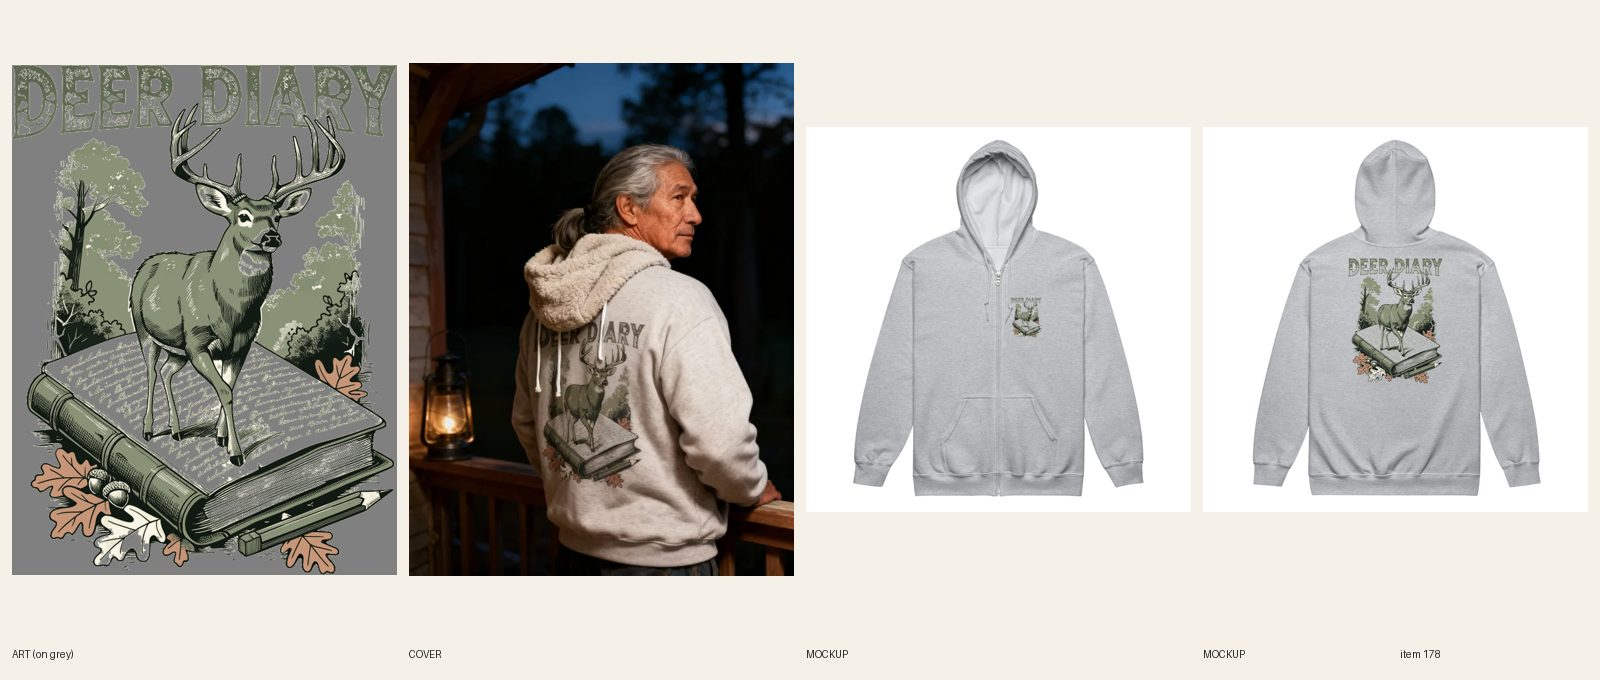
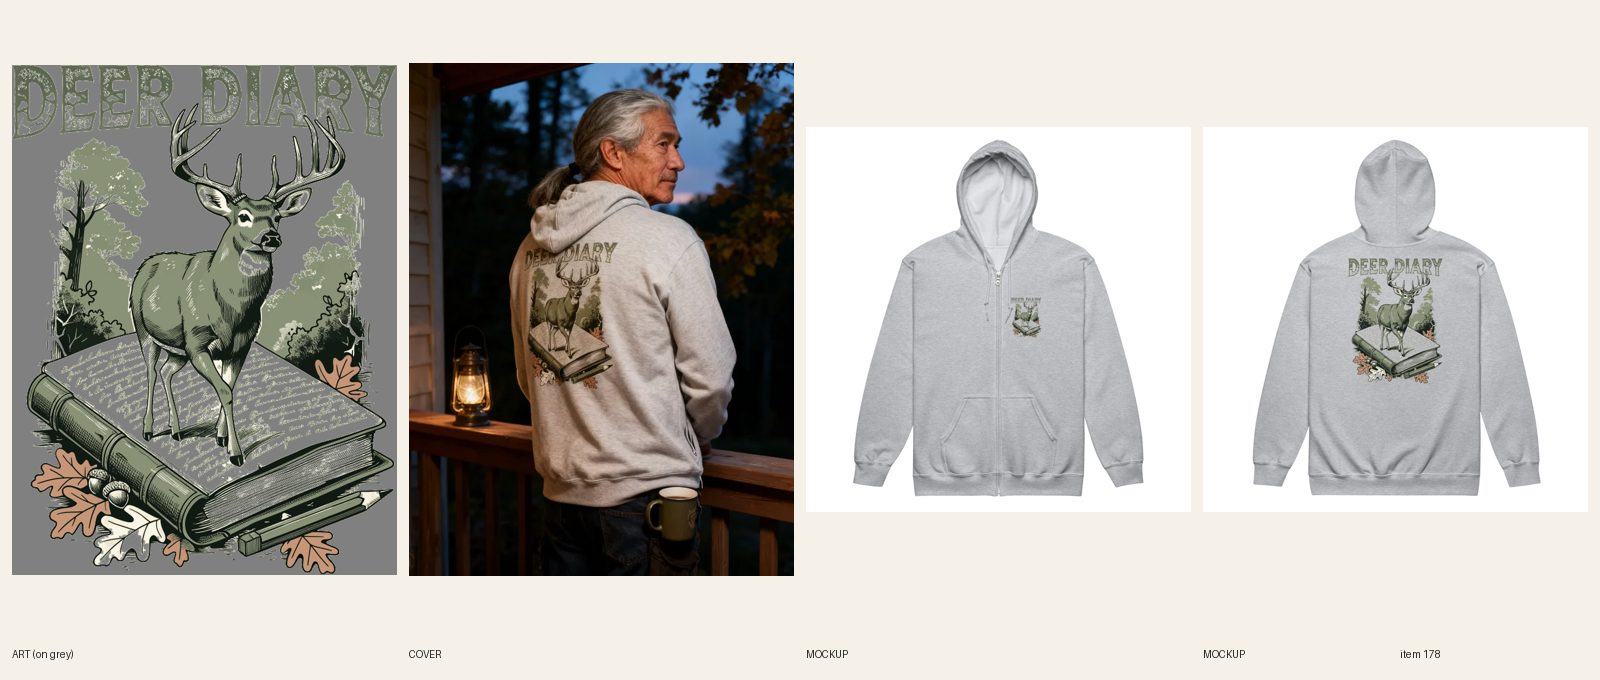
[B] redo 178 cover -> review

Changed region(s): [[0.25, 0.0926, 0.5, 0.8647]]

diff --git a/docs/intake-log.md b/docs/intake-log.md
@@ -1,3 +1,4 @@
+2026-10-16 18:46 UTC — [B] REVIEW #178 (redo): cover only (R6.9 redo): generated from the Sport Grey BACK mockup with 3 images per call; plain cotton-fleece hood resting behind the neck, DEER DIARY and the buck fully readable, no zipper on the back.
 2026-10-16 18:44 UTC — [H] Helper run: Telegram inbox empty (getUpdates returned no messages, nothing to consume). Audit: 184 live products, 0 errors, 7 warnings (polish only, left alone); no price, SEO or collection errors to fix. Announcement bar already reads the holiday line (R12.3). Site freshness: #191 nutcracker bow hoodie, #190 highland cow hoodie, #184 clean plate club hoodie all return 200. Stuck check: none. Lane A last commit 18:30, lane B committed 18:41 (its RUNNING line is from 16:36 but the lane is active, so no alert). Daily summary already sent today (12:43). Lock released.
 2026-10-16 18:44 UTC — [B] REVIEW #157 (redo): cover only (R6.9 redo): new model (registry row 400, short cropped hair) so nothing crosses the print, generated from the Black mockup with 3 images per call, covers.ts alt updated. #227's long-braid row is retired.
 2026-10-16 18:41 UTC — [B] REVIEW #165 (redo): in-place redo of the ACTIVE product: new Recraft art (Conflict Resolution, try 1), single original-ink file for all 4 light colors, 30 variants re-syncing, new mockups + variant images + cover (#235, 3 images per call, best kept), copy unchanged (still accurate).

diff --git a/docs/pipeline/178-hunting-zip-deer-diary.md b/docs/pipeline/178-hunting-zip-deer-diary.md
@@ -1,4 +1,4 @@
-status: BUILDING [B] 2026-10-16
+status: REVIEW
 lane: B
 type: twin
 id: 178
@@ -26,3 +26,4 @@ handle: mens-hunting-deer-diary-zip-hoodie
 - 2026-10-16 18:40 UTC director: REDO (product stays DRAFT). Notes:
   1. R6.8/R8.6 (cover garment): the hood is a sherpa/fleece-lined hood, which the Gildan 18600 doesn't have; a shopper would expect a sherpa-lined zip hoodie. The hood also hangs over the top of DEER DIARY. One more attempt under R6.9 (new line): generate from the Ash BACK mockup as the --design reference (the method that fixed #181), plain cotton-fleece hood, hood down but not covering the lettering, read every word against the art before saving.
   2. Product, copy, sync and mockups are fine: only the cover changes.
+- 2026-10-16 18:46 UTC [B]: REDO done: cover only (R6.9 redo): generated from the Sport Grey BACK mockup with 3 images per call; plain cotton-fleece hood resting behind the neck, DEER DIARY and the buck fully readable, no zipper on the back. Review sheet docs/review/178.jpg.
